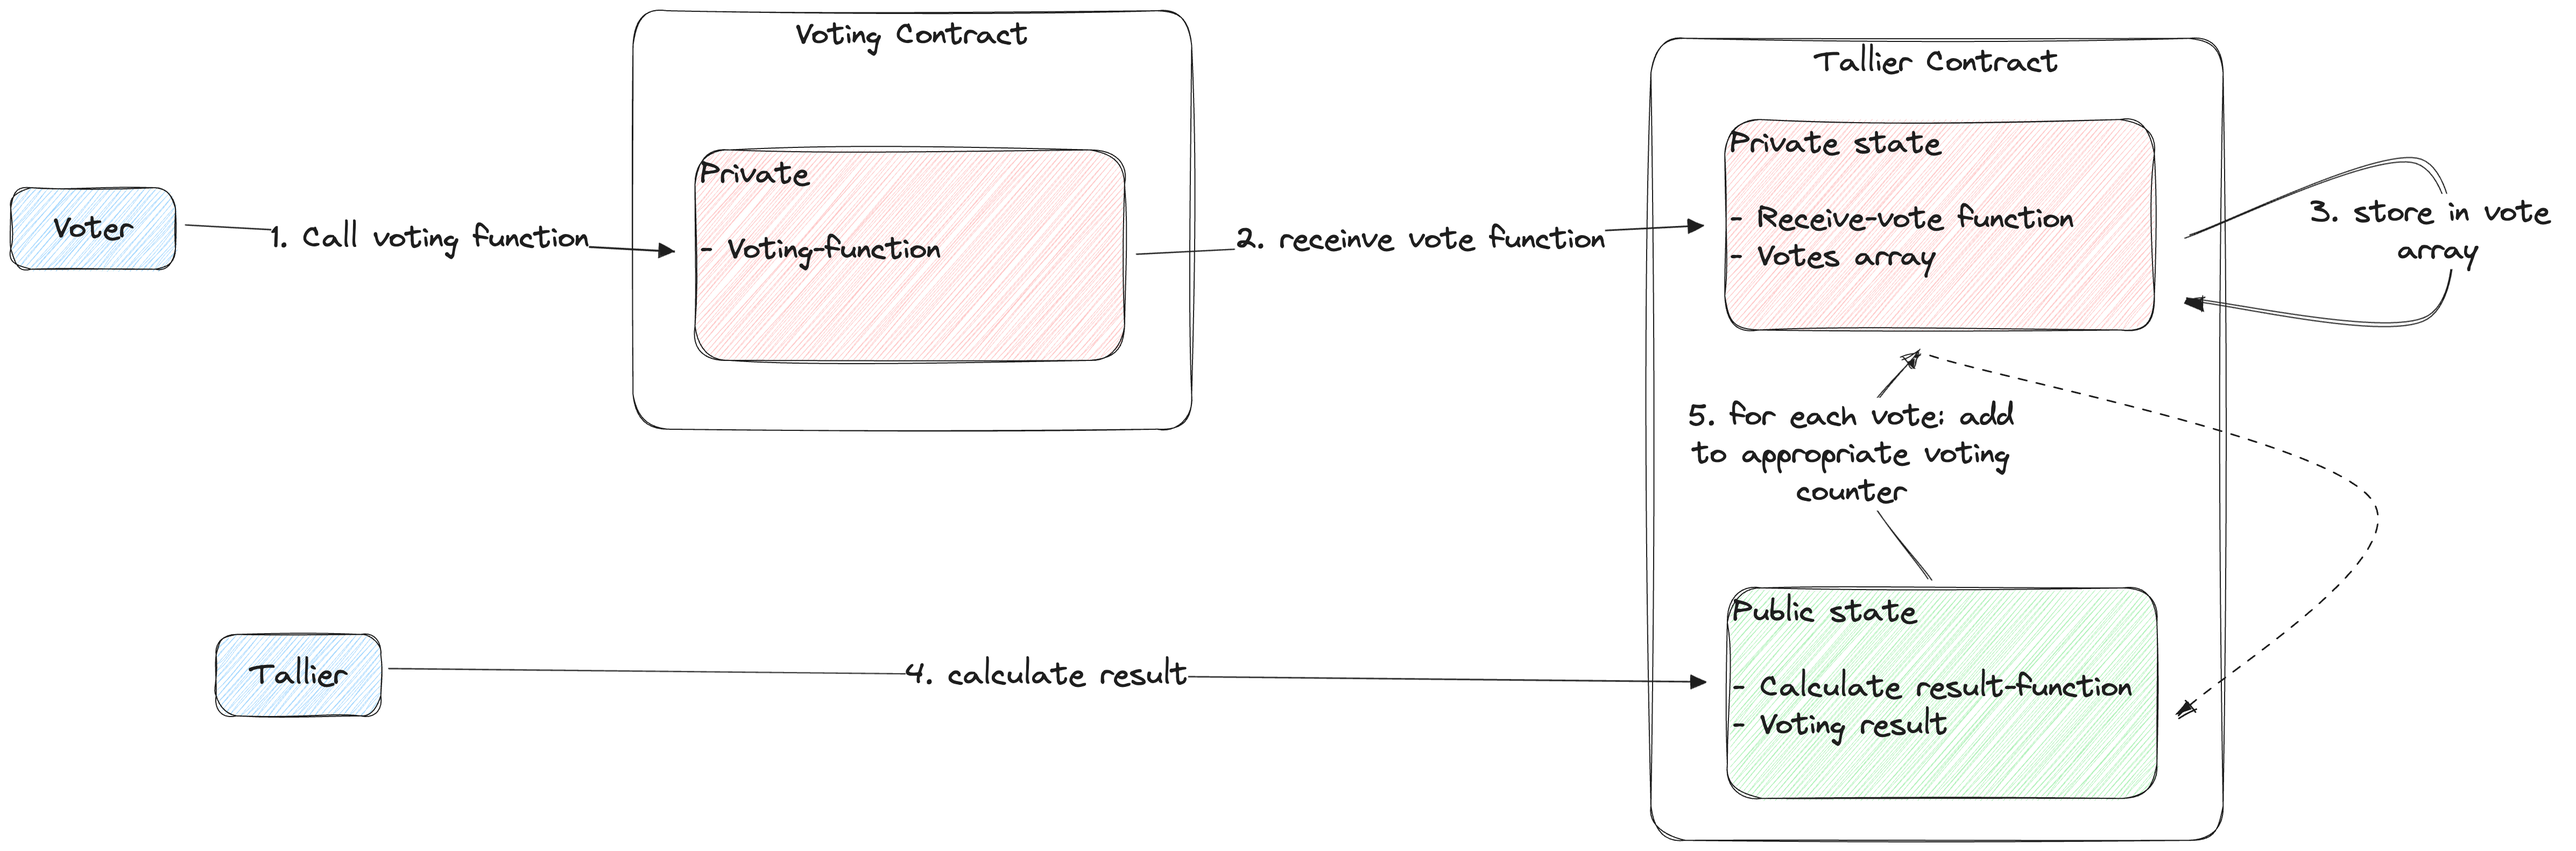
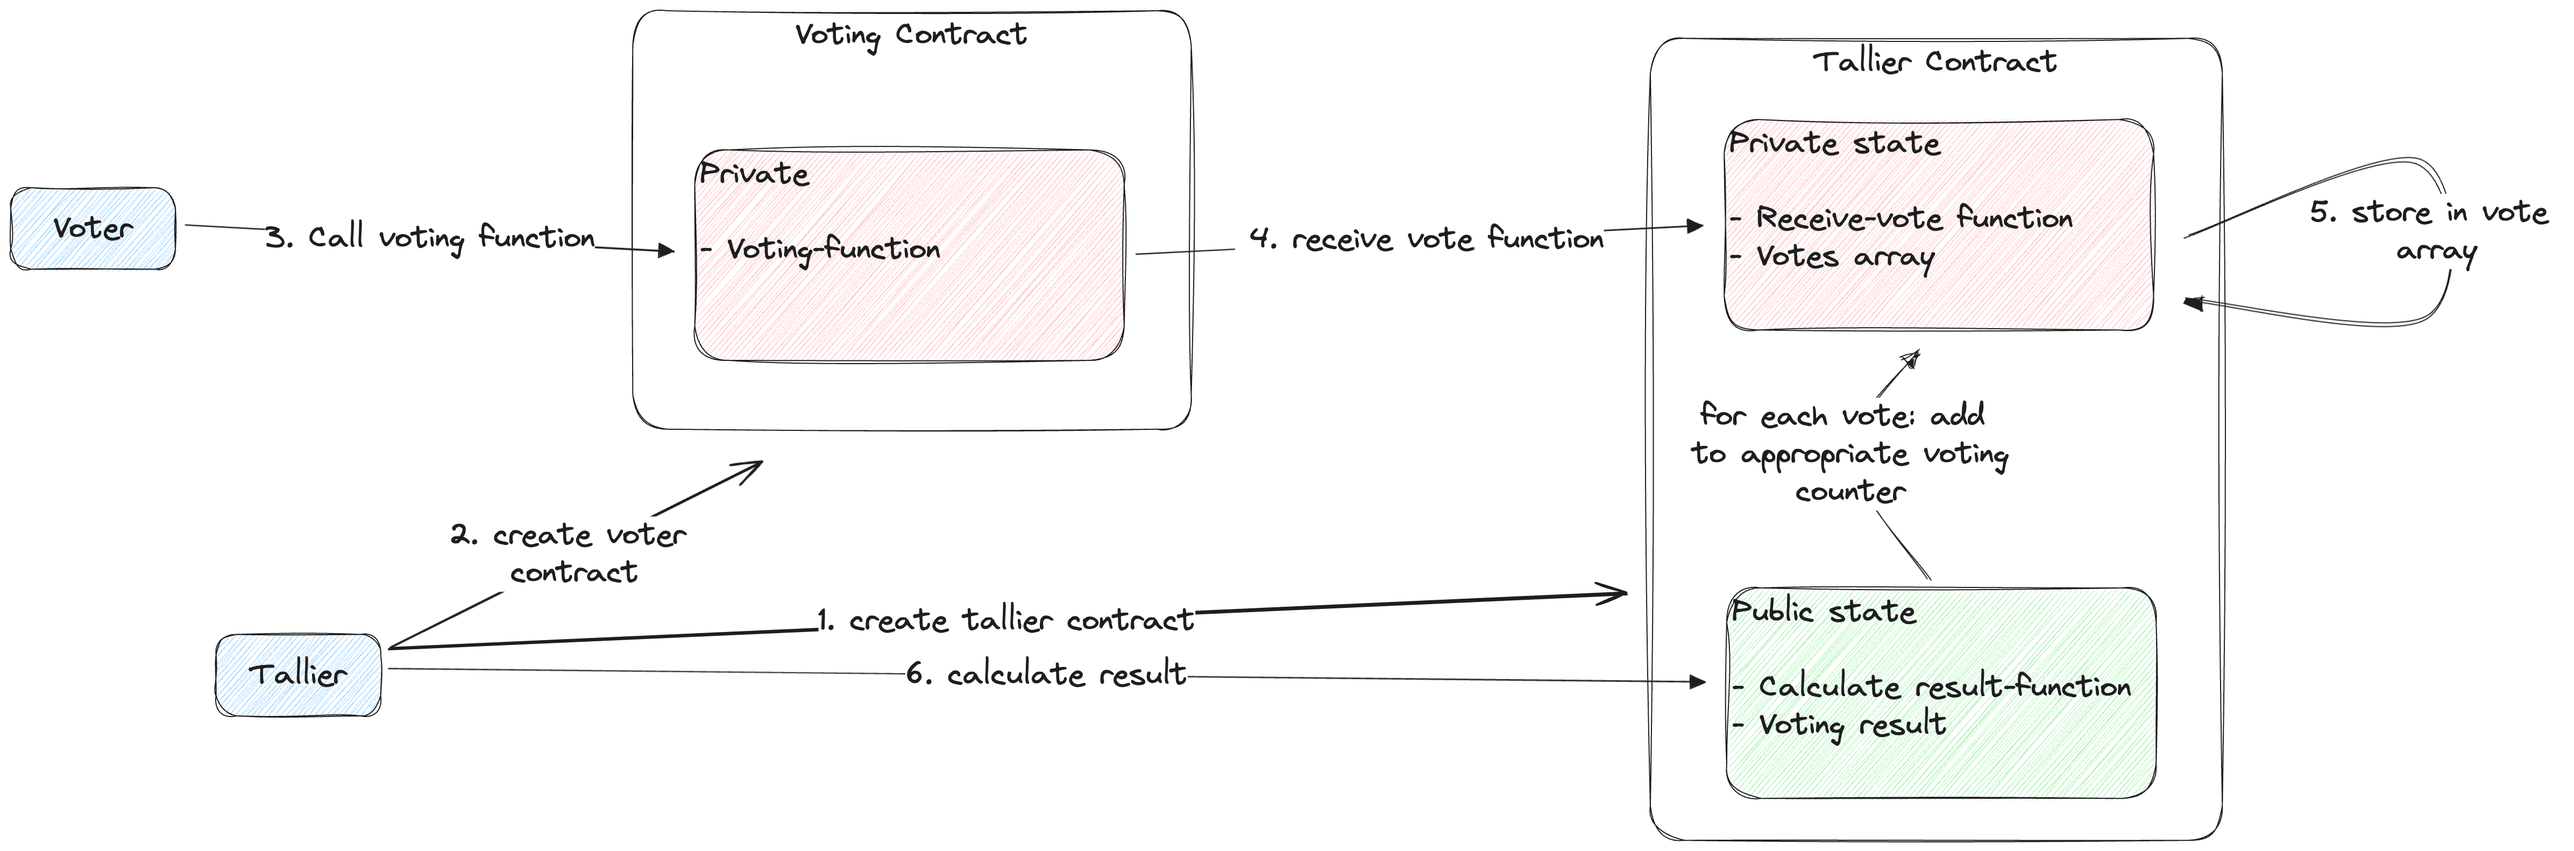
Updated readme

diff --git a/README.md b/README.md
@@ -19,9 +19,9 @@ The first one, which is also integrated with the UI, is with a trusted third par
 ### Phased voting
 The second one, integrated only with typescript-tests, is called phased voting. It requires a third party, but he is only trusted to run, finish and cancel the process. Not to see any of the actual votes.
 #### process:
-1. the organizer creates a phase voting contract and assigns a responsible third party
+1. the organizer creates a phase voting contract and assigns a responsible third party or itself as administrator
 2. voters submit their votes to the voting contract, these votes are hidden but can not longer be changed after submission
-3. third party closes the voting phase
+3. administrator closes the voting phase
 4. voters burn their locked votes and reveal their vote, without revealing their own identity
 5. everyone can query the results of the voting
 
